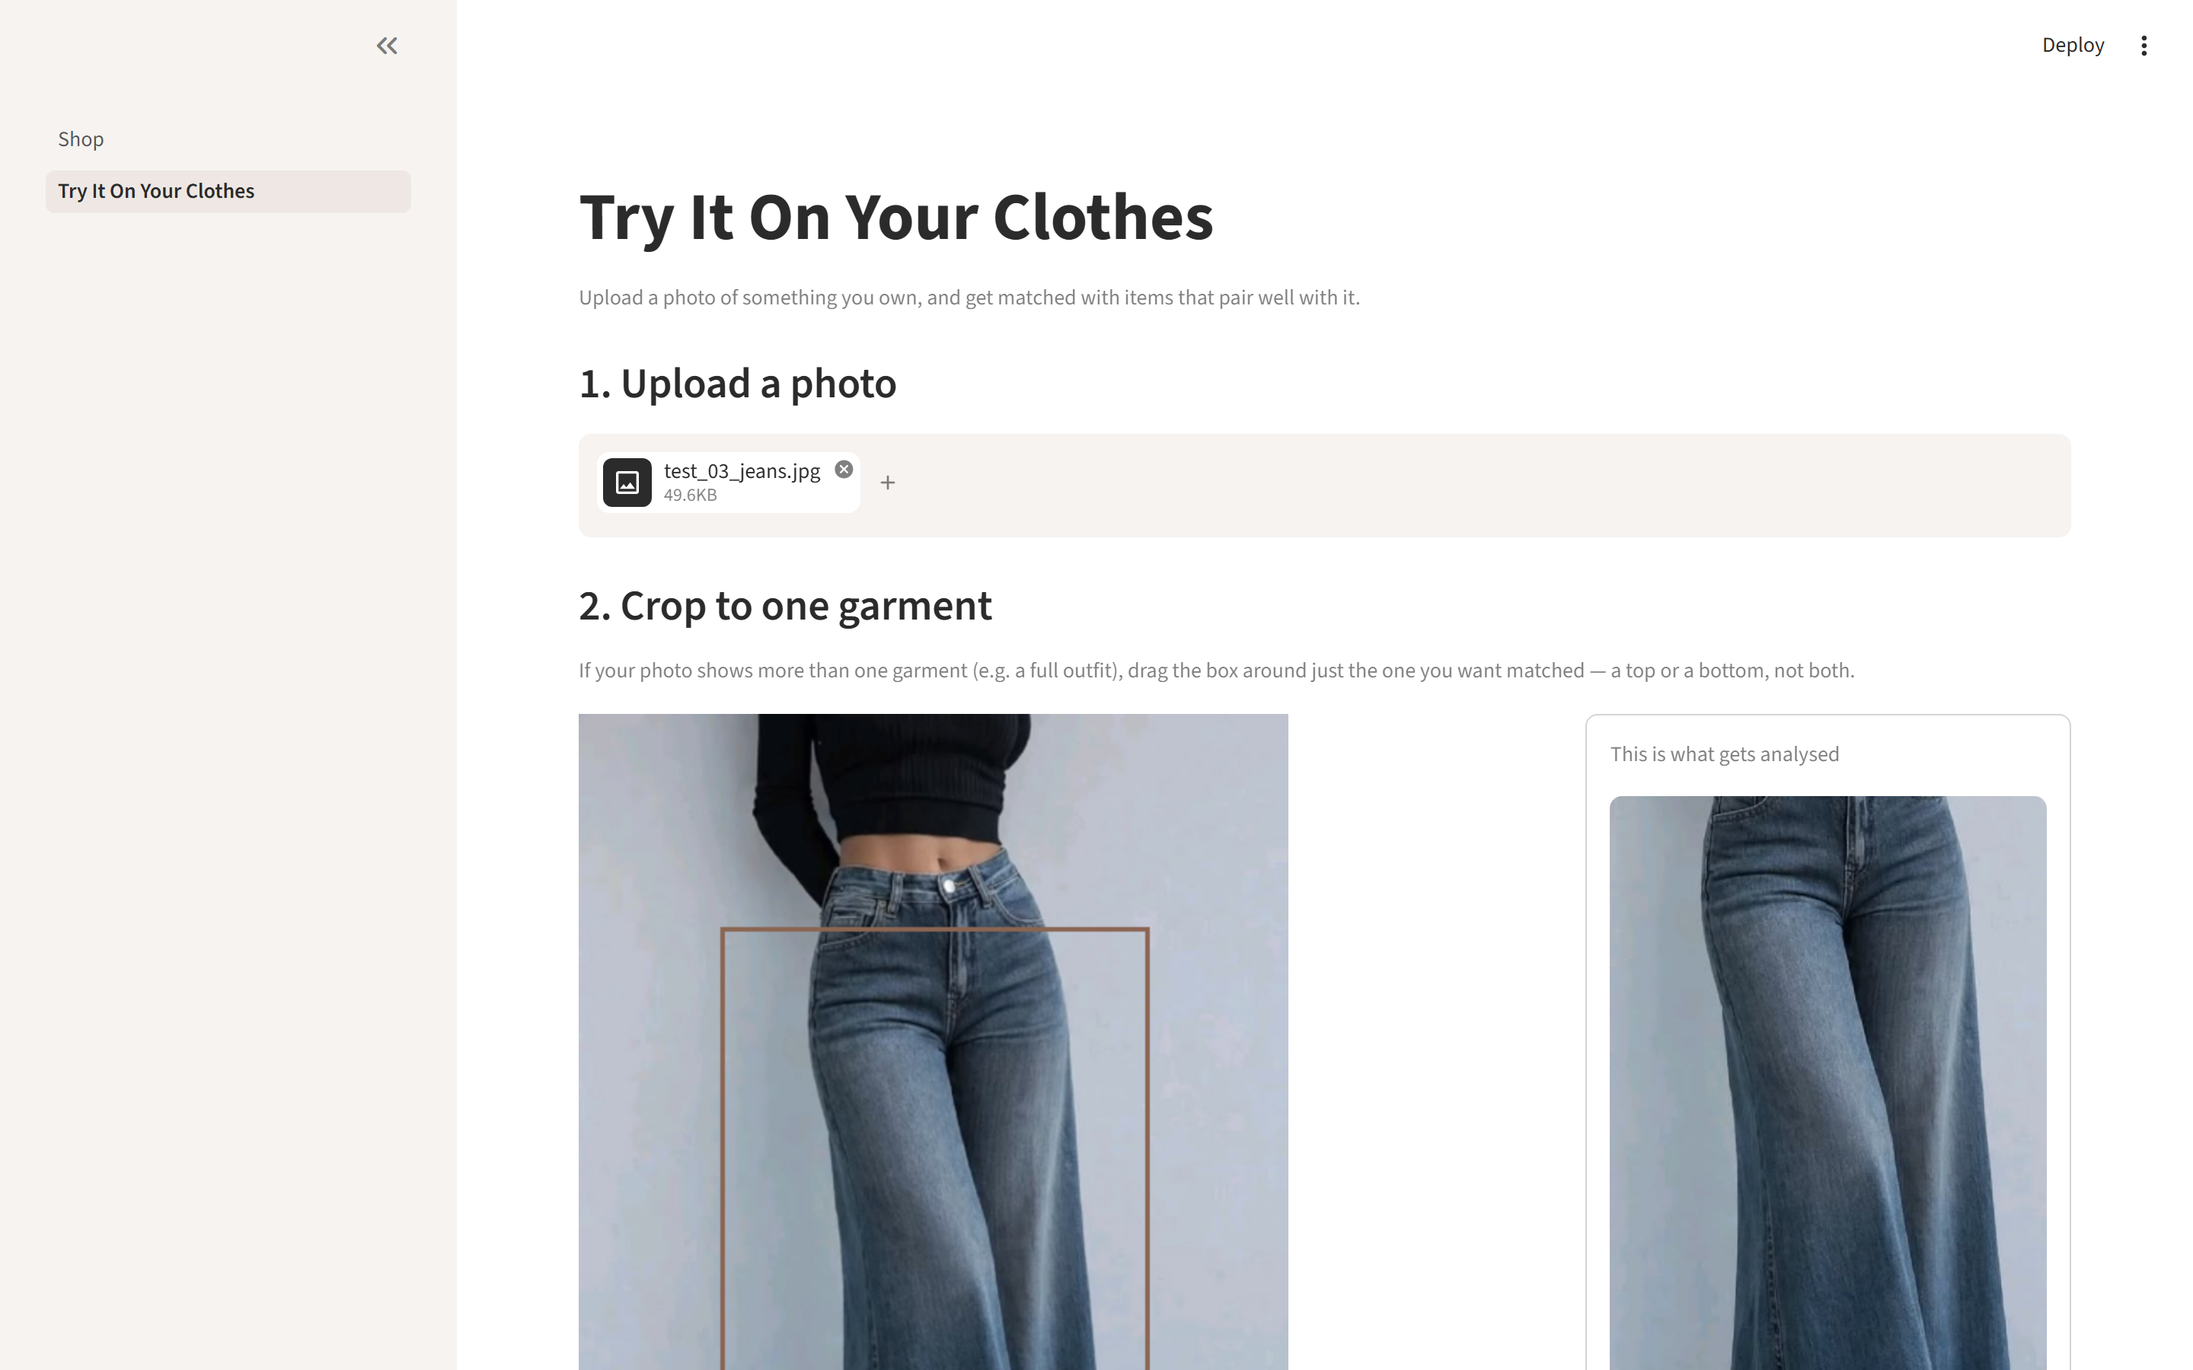
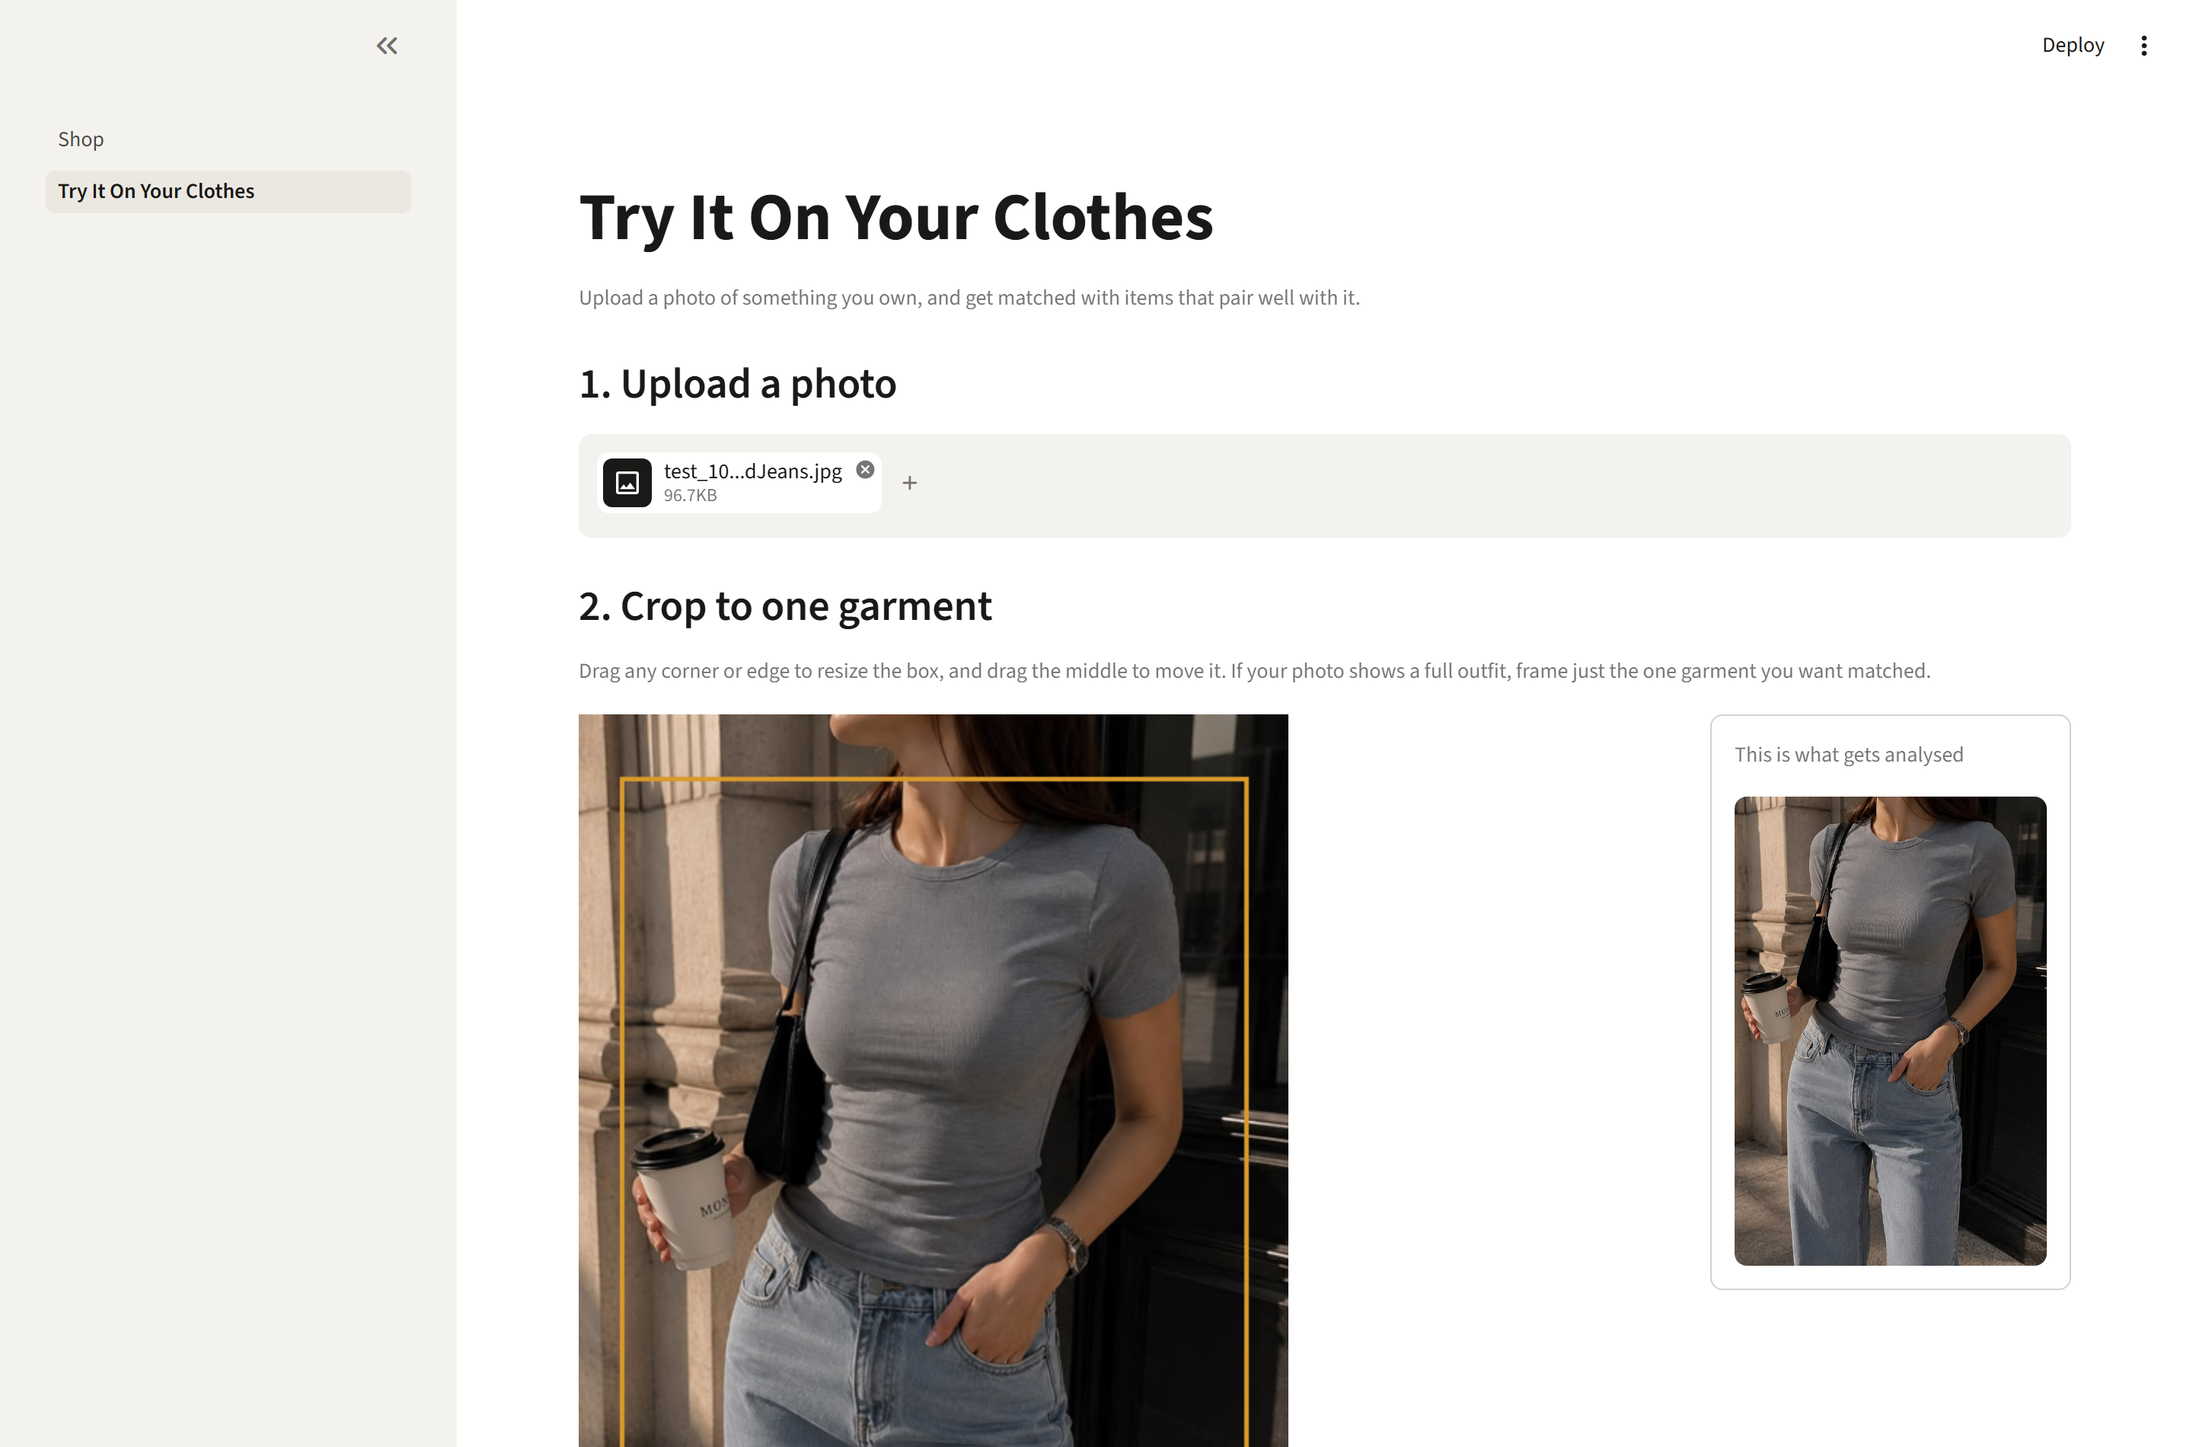
36 colours to choose from, a bigger crop box, and uniform product tiles
Colour detection was naming things wrongly often enough that the fix
needed to be "let the customer say what it actually is". The dropdown now
offers 36 colours instead of 17.

The detector's own palette is deliberately *not* the same list. Finer
shades (tan, mustard, coral, rust, lavender...) were added to it and then
taken back out, because measuring showed accuracy fell from 44.9% to
40.8%. The reason is worth recording: the detector wasn't wrong, it was
more specific than the ground truth - calling a khaki top "tan" where the
catalog says "beige", and a kurta "mustard" where the catalog says
"yellow". Both are arguably better answers, but they score as misses
against labels written in the coarser vocabulary. Relabelling the catalog
to match would flatter the metric rather than improve the system, so the
detector keeps the palette that measures best (17 names, 44.9%) and the
extra shades are offered to the person instead.

The two lists are now separate concepts with an asserted invariant:
everything detectable must also be selectable, or the app crashes
preselecting a value that isn't in the dropdown - which is exactly the
bug that took the live app down on "beige".

Colour-theory scoring covers the new shades too. Without that a burgundy
top would score zero against maroon and red, and earth tones like beige
and tan now count as neutrals, which is how they behave when dressing.

Crop box: it was already free-form, but sat in a narrow column with a
[…]

diff --git a/app_pages/try_it_on.py b/app_pages/try_it_on.py
@@ -19,16 +19,18 @@ from matching_engine import analyze_uploaded_photo, find_matches_from_details
 from explanation import get_explanation, build_template_explanation
 from shop_utils import catalog_image_path, build_upi_link
 from pairing_rules import CATEGORY_LABELS, STYLE_LABELS, describe_category
-from color_detector import ALL_COLOR_NAMES
+from color_detector import SELECTABLE_COLOR_NAMES
 from outfit_builder import build_outfit
 
 CATEGORY_OPTIONS = sorted(CATEGORY_LABELS.keys())
-# ALL_COLOR_NAMES is color_detector.py's own single source of truth for
-# every value closest_color_name() can return - reconstructing this list
-# by hand from its internal reference dicts (as an earlier version did)
-# missed "beige" (a real return value that isn't a dict key) and crashed
-# the app with a ValueError the first time a real upload detected it.
-COLOR_OPTIONS = ALL_COLOR_NAMES
+# Deliberately the *selectable* list, not the detectable one: it includes
+# shades the detector has no reference for (silver, charcoal, a patterned
+# garment that isn't one colour), because automatic detection is
+# imperfect and the customer needs to be able to name what they actually
+# have. color_detector guarantees every detectable colour is in here, so
+# preselecting a detected value can't fail - the bug that once crashed
+# the live app on "beige".
+COLOR_OPTIONS = SELECTABLE_COLOR_NAMES
 STYLE_OPTIONS = sorted(STYLE_LABELS.keys())
 
 # Real constraint, not a workaround being hidden: Gemini's free tier
@@ -55,6 +57,11 @@ LOW_CONFIDENCE_THRESHOLD = 0.70
 # noise for the customer (the outfit builder still sees all of them, since
 # it needs a candidate for every slot).
 MAX_RESULTS_SHOWN = 5
+
+# The crop outline sits on top of the customer's own photo, so it can't
+# use the theme's near-black accent - it would disappear against dark
+# clothing. A warm amber reads clearly against almost any garment.
+CROP_BOX_COLOR = "#D99A2B"
 
 st.title("Try It On Your Clothes")
 st.caption("Upload a photo of something you own, and get matched with items that pair well with it.")
@@ -84,17 +91,31 @@ if uploaded_file is not None:
     if not st.session_state.get("crop_confirmed"):
         st.subheader("2. Crop to one garment")
         st.caption(
-            "If your photo shows more than one garment (e.g. a full outfit), drag the box "
-            "around just the one you want matched — a top or a bottom, not both."
+            "Drag any corner or edge to resize the box, and drag the middle to move it. "
+            "If your photo shows a full outfit, frame just the one garment you want matched."
         )
         original_image = Image.open(uploaded_file).convert("RGB")
 
-        crop_col, preview_col = st.columns([2, 1])
+        crop_col, preview_col = st.columns([3, 1])
         with crop_col:
+            # A box that starts nearly full-frame makes it obvious the crop
+            # is adjustable - the default is a small centred rectangle that
+            # reads as fixed. default_coords is (left, right, top, bottom)
+            # in the original image's own pixels.
+            width, height = original_image.size
+            inset_x, inset_y = int(width * 0.06), int(height * 0.06)
+            starting_box = (inset_x, width - inset_x, inset_y, height - inset_y)
+
             # aspect_ratio=None allows a free-form box, not a fixed shape -
-            # a "top" crop and a "bottom" crop are very different shapes.
+            # a "top" crop and a "bottom" crop are very different shapes, so
+            # every edge and corner has to be draggable independently.
             cropped_image = st_cropper(
-                original_image, realtime_update=True, box_color="#8A6552", aspect_ratio=None
+                original_image,
+                realtime_update=True,
+                box_color=CROP_BOX_COLOR,
+                aspect_ratio=None,
+                default_coords=starting_box,
+                stroke_width=3,
             )
         with preview_col:
             with st.container(border=True):

diff --git a/color_detector.py b/color_detector.py
@@ -68,6 +68,20 @@ CHROMATIC_FAMILIES = {
     "cream": [(230, 220, 190)],
 }
 
+# Finer shades (tan, mustard, coral, rust and friends) were added here and
+# then taken out again, because measuring showed it made things worse:
+# colour accuracy fell from 44.9% to 40.8%. The cause is interesting - the
+# detector wasn't wrong, it was *more specific* than the ground truth. It
+# started calling a khaki top "tan" where the catalog says "beige", and a
+# kurta "mustard" where the catalog says "yellow". Both are arguably
+# better answers, but they score as misses against labels written in the
+# coarser vocabulary.
+#
+# Rather than relabel the catalog to match the model's output - which is
+# how you flatter a metric instead of improving a system - the extra
+# shades stay available for a *person* to choose (HUMAN_ONLY_COLORS
+# below) while the detector keeps the palette that measures best.
+
 # Below this HSV saturation, a color is judged to have no real hue at
 # all and is named purely by brightness/warmth (see NEUTRAL_REFERENCE,
 # plus the "beige" special case below).
@@ -91,6 +105,48 @@ WHITE_BRIGHTNESS_THRESHOLD = 0.65
 # ValueError on ".index('beige')" because it wasn't in the dropdown's
 # option list at all.
 ALL_COLOR_NAMES = sorted(set(NEUTRAL_REFERENCE) | {"beige"} | set(CHROMATIC_FAMILIES))
+
+# Colours a person can pick by hand, which is deliberately a *superset* of
+# what the detector can produce. Automatic detection is measurably
+# imperfect, so the customer needs to be able to name the colour they
+# actually have - including shades the detector has no reference point for
+# (a true silver, or a patterned garment that isn't one colour at all).
+#
+# The invariant that matters: everything the detector can return must also
+# be selectable, or the app crashes trying to preselect a value that isn't
+# in the list. That's the bug that took the live app down once, so it's
+# asserted below rather than left to chance.
+HUMAN_ONLY_COLORS = {
+    # Shades the detector deliberately doesn't try to name (see the note
+    # above CHROMATIC_FAMILIES) but that a person can see perfectly well.
+    "burgundy",
+    "rust",
+    "mustard",
+    "tan",
+    "khaki",
+    "lavender",
+    "lilac",
+    "mint",
+    "sage",
+    "coral",
+    "turquoise",
+    "magenta",
+    "peach",
+    "plum",
+    # Tones that a single dominant-colour reading can't represent at all.
+    "charcoal",       # very dark grey - the detector calls this black or gray
+    "ivory",          # off-white with warmth
+    "silver",         # reads as plain grey
+    "gold",           # reads as yellow or brown depending on the lighting
+    "multicoloured",  # patterned garments genuinely aren't one colour
+}
+
+SELECTABLE_COLOR_NAMES = sorted(set(ALL_COLOR_NAMES) | HUMAN_ONLY_COLORS)
+
+assert set(ALL_COLOR_NAMES) <= set(SELECTABLE_COLOR_NAMES), (
+    "every detectable colour must also be selectable, or the app will crash "
+    "preselecting a detected value that isn't in the dropdown"
+)
 
 
 def closest_color_name(rgb):

diff --git a/pairing_rules.py b/pairing_rules.py
@@ -111,7 +111,14 @@ STYLE_LABELS = {
 # if they are classic complementary or analogous pairs, and neutrals
 # (black/white/gray/cream/navy) are treated as safely pairing with almost
 # everything, matching ordinary styling advice.
-NEUTRAL_COLORS = {"black", "white", "gray", "cream", "navy"}
+NEUTRAL_COLORS = {
+    "black", "white", "gray", "cream", "navy",
+    # Earth and off-white tones behave like neutrals in practice - they sit
+    # under almost anything - and leaving them out meant a beige or tan
+    # item scored 0 against most of the catalog despite being one of the
+    # easiest things to pair.
+    "beige", "tan", "charcoal", "ivory", "silver",
+}
 
 COMPLEMENTARY_PAIRS = {
     frozenset({"blue", "yellow"}),
@@ -127,6 +134,33 @@ ANALOGOUS_PAIRS = {
     frozenset({"olive", "green"}),
     frozenset({"olive", "brown"}),
     frozenset({"brown", "cream"}),
+    # The added shades sit next to colours already in the table, so they
+    # inherit the same relationships - without these a burgundy top would
+    # score zero against maroon and red, which is obviously wrong.
+    frozenset({"burgundy", "maroon"}),
+    frozenset({"burgundy", "red"}),
+    frozenset({"rust", "orange"}),
+    frozenset({"rust", "brown"}),
+    frozenset({"mustard", "yellow"}),
+    frozenset({"mustard", "olive"}),
+    frozenset({"lavender", "purple"}),
+    frozenset({"mint", "green"}),
+    frozenset({"mint", "teal"}),
+    frozenset({"coral", "pink"}),
+    frozenset({"coral", "orange"}),
+    frozenset({"turquoise", "teal"}),
+    frozenset({"turquoise", "blue"}),
+    frozenset({"magenta", "pink"}),
+    frozenset({"magenta", "purple"}),
+    frozenset({"peach", "orange"}),
+    frozenset({"peach", "pink"}),
+    frozenset({"gold", "yellow"}),
+}
+
+COMPLEMENTARY_PAIRS |= {
+    frozenset({"lavender", "mustard"}),
+    frozenset({"mint", "coral"}),
+    frozenset({"turquoise", "rust"}),
 }
 
 

diff --git a/shop_utils.py b/shop_utils.py
@@ -3,6 +3,8 @@
 import json
 from urllib.parse import quote
 
+from PIL import Image
+
 CATALOG_JSON = "catalog.json"
 CATALOG_IMAGES_DIR = "catalog_images"
 
@@ -19,6 +21,36 @@ def load_catalog_items():
 
 def catalog_image_path(item):
     return f"{CATALOG_IMAGES_DIR}/{item['filename']}"
+
+
+# Catalog photos come in whatever shape they were shot in, so a grid of
+# them has ragged card heights and looks unfinished. Retailers solve this
+# by cropping every product image to one tile shape; 3:4 portrait suits
+# clothing, which is taller than it is wide.
+TILE_ASPECT = (3, 4)
+
+
+def tile_image(path, aspect=TILE_ASPECT):
+    """
+    Centre-crops a photo to a consistent aspect ratio, taking the largest
+    region that fits so nothing is stretched. Crops rather than pads
+    because a letterboxed product photo looks like a mistake, while a
+    slightly tighter crop just looks like a considered one.
+    """
+    image = Image.open(path).convert("RGB")
+    width, height = image.size
+    target_ratio = aspect[0] / aspect[1]
+
+    if width / height > target_ratio:      # too wide - trim the sides
+        new_width = round(height * target_ratio)
+        left = (width - new_width) // 2
+        box = (left, 0, left + new_width, height)
+    else:                                   # too tall - trim top and bottom
+        new_height = round(width / target_ratio)
+        top = (height - new_height) // 2
+        box = (0, top, width, top + new_height)
+
+    return image.crop(box)
 
 
 def build_upi_link(item):

diff --git a/tests/test_shop_utils.py b/tests/test_shop_utils.py
@@ -67,3 +67,28 @@ def test_every_catalog_image_file_actually_exists():
 
     for item in load_catalog_items():
         assert os.path.exists(catalog_image_path(item)), f"missing image for {item['id']}"
+
+
+def test_tiles_all_come_out_the_same_shape():
+    """A grid of ragged card heights looks unfinished, so every product
+    photo is cropped to one tile ratio regardless of how it was shot."""
+    from shop_utils import TILE_ASPECT, tile_image
+
+    expected = TILE_ASPECT[0] / TILE_ASPECT[1]
+    for item in load_catalog_items()[:8]:
+        width, height = tile_image(catalog_image_path(item)).size
+        assert abs(width / height - expected) < 0.01
+
+
+def test_tiling_crops_rather_than_stretches():
+    """Cropping keeps the garment's proportions; scaling to fit would
+    distort it, which is worse than losing a little of the edges."""
+    from PIL import Image
+
+    from shop_utils import tile_image
+
+    path = catalog_image_path(load_catalog_items()[0])
+    original = Image.open(path)
+    tiled = tile_image(path)
+    assert tiled.width <= original.width
+    assert tiled.height <= original.height

diff --git a/app_pages/shop.py b/app_pages/shop.py
@@ -6,10 +6,17 @@ around it.
 
 import streamlit as st
 
-from shop_utils import load_catalog_items, catalog_image_path, build_upi_link
+from shop_utils import load_catalog_items, catalog_image_path, build_upi_link, tile_image
 
 st.title("Shop")
 st.caption("Vintage, celebrity, and new clothing.")
+
+# Cropping runs once per photo per session rather than on every rerun -
+# a 49-item grid re-cropping on each filter change would be visibly slow.
+@st.cache_data(show_spinner=False)
+def uniform_tile(path):
+    return tile_image(path)
+
 
 catalog = load_catalog_items()
 
@@ -43,7 +50,7 @@ for row in rows:
     for col, item in zip(cols, row):
         with col:
             with st.container(border=True):
-                st.image(catalog_image_path(item), width="stretch")
+                st.image(uniform_tile(catalog_image_path(item)), width="stretch")
                 st.markdown(f"**{item['name']}**")
                 # Grouped digits read as a price; a bare 1499 reads as an ID.
                 st.markdown(f"### ₹{item['price']:,}")

diff --git a/docs/understanding-this-project.md b/docs/understanding-this-project.md
@@ -125,7 +125,21 @@ it. **Lesson: measurement isn't just a grade, it's a to-do list.**
 I stopped tuning there rather than chasing the last few items, because
 tuning prompts against 49 photos would just be fitting to that set.
 
-**10. Free hosting has a 1GB memory limit.**
+**10. I added more colours, measured, and took them back out.**
+Detection was naming colours too coarsely, so I added finer shades (tan,
+mustard, coral, rust, lavender…) to the detector's palette. Accuracy
+*dropped*, 44.9% → 40.8%. The reason was worth understanding: the
+detector wasn't wrong, it was more *specific* than my labels — it called
+a khaki top "tan" where the catalog said "beige", and a kurta "mustard"
+where the catalog said "yellow". Both are arguably better answers.
+*What I did:* I could have relabelled the catalog to match, but that's
+flattering the metric rather than improving the system. So the detector
+kept the palette that measures best, and the extra shades are offered to
+the *person* instead — the dropdown now has 36 colours to pick from
+while the detector names 17. **Lesson: separate what the model claims
+from what the user can say.**
+
+**11. Free hosting has a 1GB memory limit.**
 I measured 725MB. It fits, but there's not much headroom. I know the fix
 if it ever fails (a smaller CLIP model, or making background removal
 optional) — that's better than being surprised.
